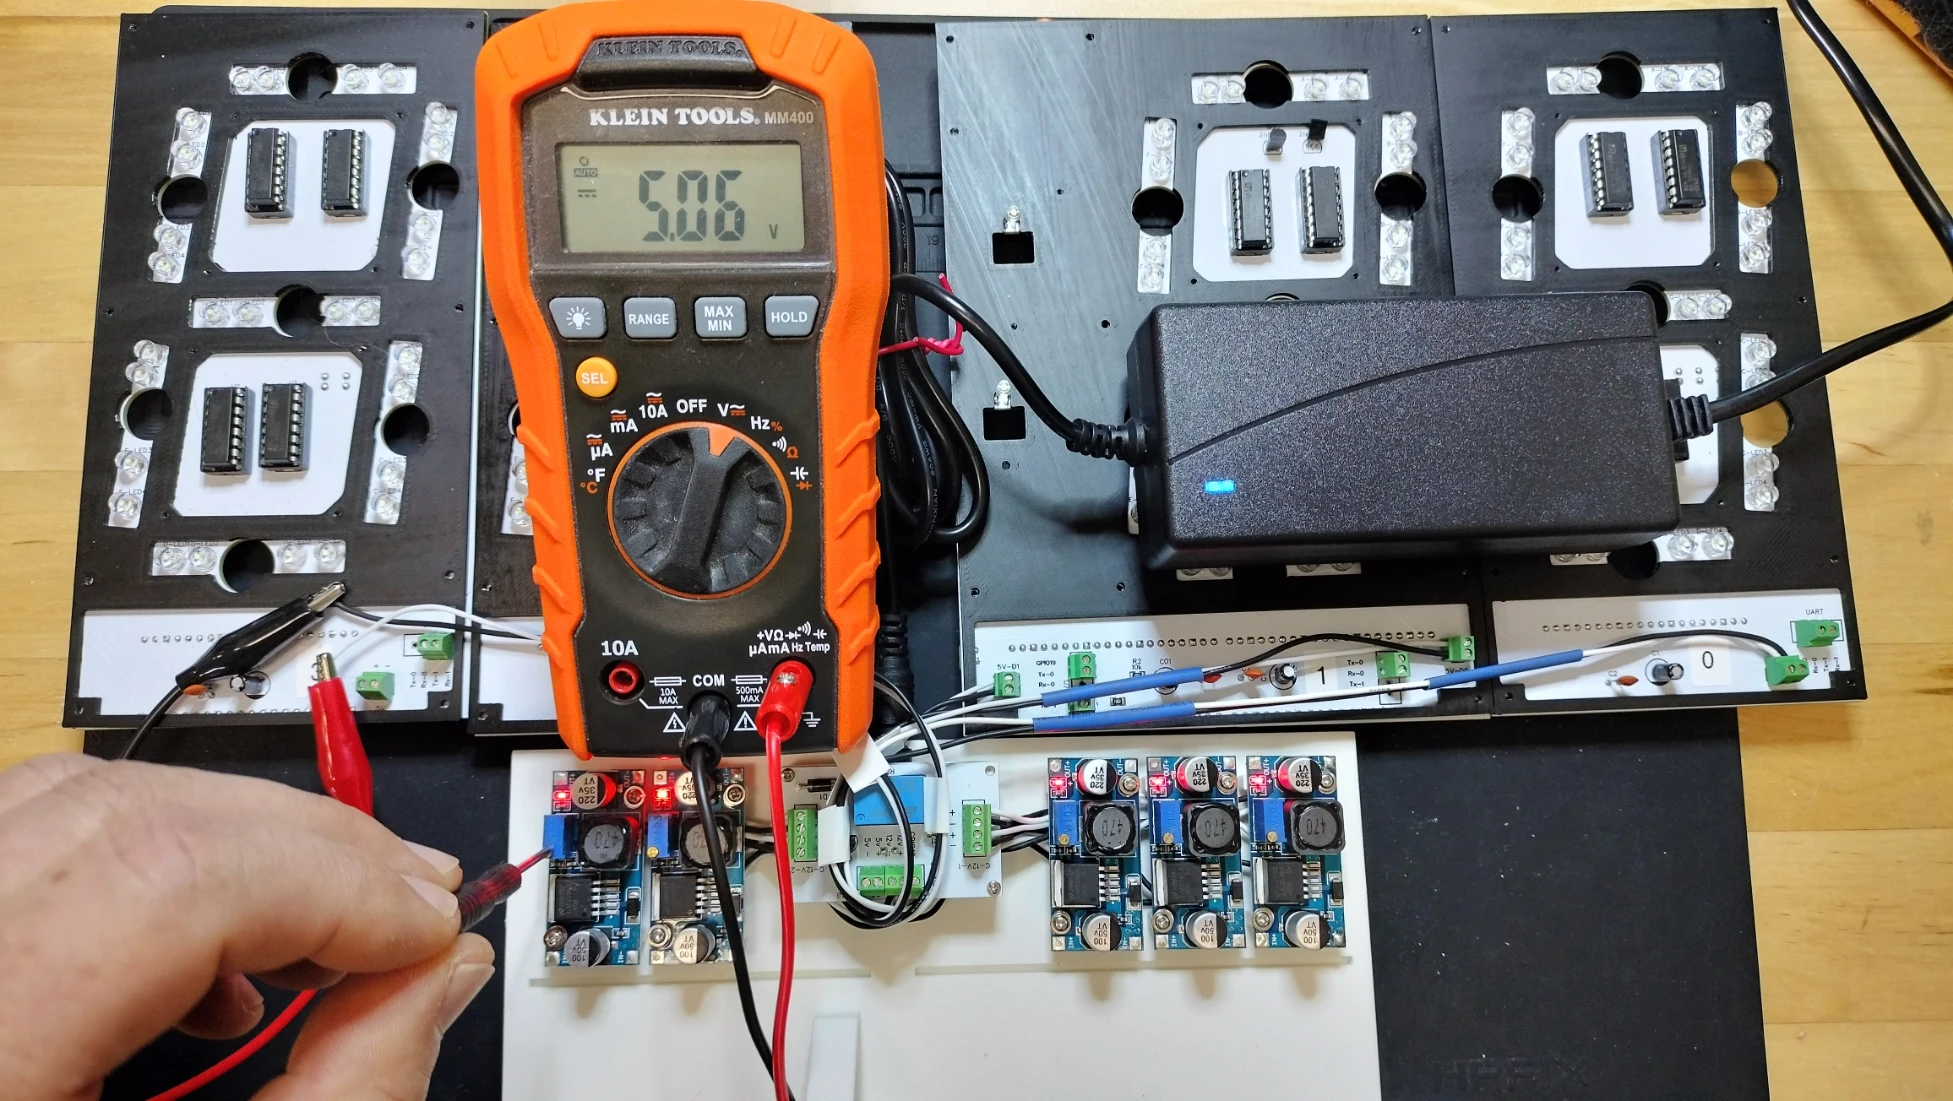
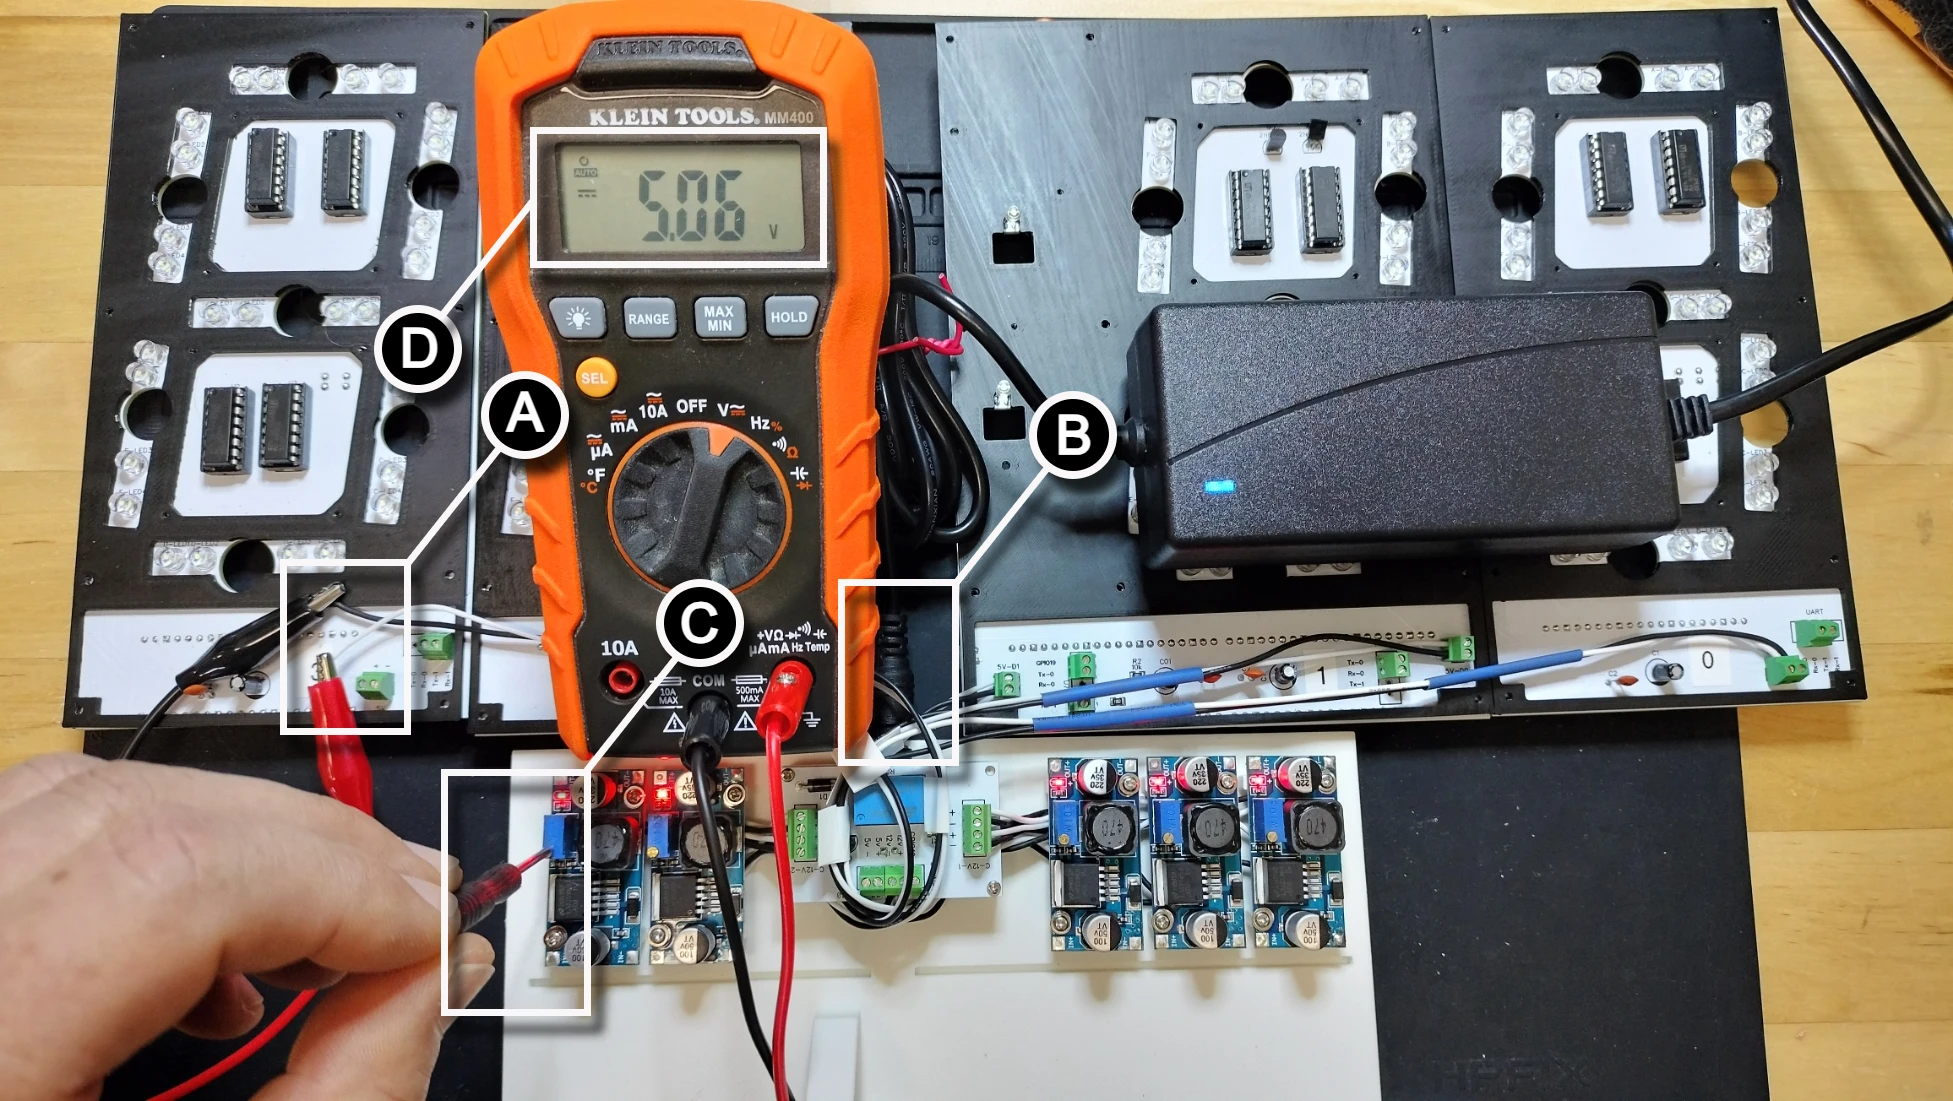
Completed draft of the buck module wiring

diff --git a/docs/assembly/buckmodulesandwiring.md b/docs/assembly/buckmodulesandwiring.md
@@ -1,4 +1,4 @@
-# Buck Modules and Wiring
+# Buck Module Wiring
 
 ## Prerequisites
 
@@ -18,6 +18,8 @@ This section ensures wiring for the PCBs are oriented for the mounting of the bu
 
 This section details wiring the buck converter to the PCBs. Be sure to follow the instructions in this section to get the wire lengths correct. Otherwise you are likely to have the wires be too short or too long for the display face to correctly fit. The buck converter module has an `In +` and `In -` on one side for the 12v input, and an `Out +` and `Out -` on the opposite side for the converted 5v output. This section will also cover how to calibrate the variable buck module to provide 5.0v to 5.1v output.
 
+The picture below is the wiring diagram for the buck converter modules.
+
 ![buckmodulesandwiring-wiring](../img/buckmoduleassembly/buckmoduleassembly-wire.webp)
 
 The picture below is the completed wiring of the buck converter modules. The order of install is **1, 2, 3** on the right, followed by **4** and **5** on the left.
@@ -29,13 +31,13 @@ The picture below is the completed wiring of the buck converter modules. The ord
 
 ### Digits 0-1, and Controller
 
-1. Following the picture below, place a buck converter module for Digit 0 on the rightmost support on the display stand. Strip 3mm of insulation from the black and white 28 AWG wire while on the roll starting then tin the stripped end with solder. Starting with the Digit 0 PCB, **(A)** Route the two wires from the 5v terminal block connector. **(B)** Slide two 3cm sections of heat shrink on the two wires but DO NOT APPLY HEAT, then **(C)** continue routing the wire around the relay, under the power management PCB and through the port on the PCB stand. **(D)** Finish unwinding the wire when you reach the end of buck module as shown in the picture. Now that the length of wire is known from its route, snip off the wires next to the terminal block connector **(A)**. Strip 3mm of insulation then tin the stripped end with solder. Connect the white wire to the `+` on the `5v` terminal block connector and the black wire onto the `-`.
+1. Following the picture below, place a buck converter module for Digit 0 on the rightmost support on the display stand. Strip 3mm of insulation from the black and white 28 AWG wire while on the roll starting then tin the stripped end with solder. **(A)** Route the two wires from the 5v terminal block connector on the Digit 0 PCB. **(B)** Slide two 3cm sections of heat shrink on the two wires but DO NOT APPLY HEAT, then **(C)** continue routing the wire around the relay, under the power management PCB and through the port on the PCB stand. **(D)** Finish unwinding the wire when you reach the end of buck module as shown in the picture. Now that the length of wire is known from its route, snip off the wires next to the terminal block connector. **(A)** Strip 3mm of insulation then tin the stripped end with solder. Connect the white wire to the `+` on the `5v` terminal block connector and the black wire onto the `-`.
 ![buckmodulesandwiring-3](../img/buckmoduleassembly/buckmoduleassembly-3.webp)
 1. Following the picture below, turn the Digit 0 buck module over to its backside and solder the white wire onto the `Out +` pad and the black wire onto the `Out -` pad.
 ![buckmodulesandwiring-4](../img/buckmoduleassembly/buckmoduleassembly-4.webp)
 1. Following the picture below, turn the Digit 0 buck module 180 degrees while having its backside facing up. Strip 3mm of insulation from the black and white 28 AWG wire while on the roll starting then tin the stripped end with solder. Solder the white wire onto the buck module's `In +` pad and the black wire onto the `In -` pad.
 ![buckmodulesandwiring-5](../img/buckmoduleassembly/buckmoduleassembly-5.webp)
-1. Turn the Digit 0 buck module over and secure it with 1.7 x 6mm self tapping screws onto the rightmost module supports on the display stand.
+1. Turn the Digit 0 buck module over and secure it with M1.7x6mm self tapping screws onto the rightmost module supports on the display stand.
 ![buckmodulesandwiring-6](../img/buckmoduleassembly/buckmoduleassembly-6.webp)
 1. Route the Digit 0 white and black wire to the power management PCB `C-12v-1` terminal block connector, provide about 10mm extra length in the wire before cutting them. Strip 3mm of insulation then tin the stripped end with solder. Connect the white wire to the `+` on the `C-12v-1` and the black wire onto the `-`.
 ![buckmodulesandwiring-7](../img/buckmoduleassembly/buckmoduleassembly-7.webp)
@@ -54,19 +56,22 @@ The picture below is the completed wiring of the buck converter modules. The ord
 
 ![buckmodulesandwiring-13](../img/buckmoduleassembly/buckmoduleassembly-13.webp)
 
-Following the picture above and starting with the Digit 0 buck module and working our way left. **(A)** disconnect the black and white wire from the 5v terminal block and connect the probes from the multimeter and turn on the multimeter. **(B)** Plug the 12v power supply into the power management PCB barrel jack. **(C)** Turn the screw on the top of the potentiometer on the Digit 0 buck module counterclockwise until **(D)** the voltage measures between 5.0 and 5.1 volts. Note you'll have to turn the screw on the top of the potentiometer several times before the voltage begins to drop.
+Follow using the picture above and start with the Digit 0 buck module furthest right. **(A)** Disconnect the black and white wire from the 5v terminal block and connect the probes from the multimeter set to measure DC voltage. **(B)** Plug the 12v power supply into the power management PCB barrel jack. **(C)** Turn the screw on the top of the potentiometer on the Digit 0 buck module counterclockwise until **(D)** the voltage measures between 5.0 and 5.1 volts. Note you'll have to turn the screw on the top of the potentiometer several times counterclockwise before the voltage begins to drop.
 
 Repeat the steps above to calibrate Digit 1 and the Conductor buck modules to 5v.
 
 ## Continue Wiring the Remaining Buck Modules
 
-1. Following the picture below, place a buck converter module for Digit 3 to the far left mounting location. Strip 3mm of insulation from the black and white 28 AWG wire while on the roll starting then tin the stripped end with solder. Starting with the Digit 3 PCB, **(A)** unroll the two wires starting at the 5v terminal block connector. **(B)** Slide one 3cm section of heat shrink on the two wires but DO NOT APPLY HEAT, then **(C)** route the wire around the relay, under the power management PCB, and through the port on the PCB stand. **(D)** Finish unwinding the wire when you reach the end of the buck module as shown in the picture. Strip 3mm of insulation then solder the white wire to the buck module `Out +` pad and the black wire to the `Out -` pad. Now that the length of wire is known from its route, snip off the wires next to the terminal block connector **(A)**. Strip 3mm of insulation then tin the stripped end with solder. Connect the white wire to the `+` on the `5v` terminal block connector and the black wire onto the `-`.
+1. Following the picture below, place a buck converter module for Digit 3 to the far left mounting location. Strip 3mm of insulation from the black and white 28 AWG wire while on the roll starting then tin the stripped end with solder. **(A)** Unroll the two wires starting at the 5v terminal block connector on Digit 3 PCB. **(B)** Slide one 3cm section of heat shrink on the two wires but DO NOT APPLY HEAT, then **(C)** route the wire around the relay, under the power management PCB, and through the port on the PCB stand. **(D)** Finish unwinding the wire when you reach the end of the buck module as shown in the picture. Strip 3mm of insulation then solder the white wire to the buck module `Out +` pad and the black wire to the `Out -` pad. Now that the length of wire is known from its route, snip off the wires next to the terminal block connector **(A)**. Strip 3mm of insulation then tin the stripped end with solder. Connect the white wire to the `+` on the `5v` terminal block connector and the black wire onto the `-`.
 ![buckmodulesandwiring-14](../img/buckmoduleassembly/buckmoduleassembly-14.webp)
 1. Following the diagram below, **(A)** solder the white wire onto the buck module's `In +` pad and the black wire onto the `In -` pad. Secure the module with two M1.7x6mm self tapping screws. **(B)** Route the Digit 0 white and black wire to the power management PCB `C-12v-1` terminal block connector, provide about 10mm extra length in the wire before cutting them. Strip 3mm of insulation then tin the stripped end with solder. Connect the white wire to the `+` on the `C-12v-1` and the black wire onto the `-`.
 ![buckmodulesandwiring-15](../img/buckmoduleassembly/buckmoduleassembly-15.webp)
-
+1. Following the picture below, place a buck converter module for Digit 2 to the right of Digit 3. Strip 3mm of insulation from the black and white 28 AWG wire while on the roll starting then tin the stripped end with solder. Starting with the Digit 2 PCB, **(A)** unroll the two wires starting at the 5v terminal block connector. **(B)** route the wire around the relay, under the power management PCB, and through the port on the PCB stand. **(C)** Finish unwinding the wire when you reach the end of the buck module as shown in the picture. Strip 3mm of insulation then solder the white wire to the buck module `Out +` pad and the black wire to the `Out -` pad. Now that the length of wire is known from its route, snip off the wires next to the terminal block connector **(A)**. Strip 3mm of insulation then tin the stripped end with solder. Connect the white wire to the `+` on the `5v` terminal block connector and the black wire onto the `-`.
 ![buckmodulesandwiring-16](../img/buckmoduleassembly/buckmoduleassembly-16.webp)
-
+Following the diagram below, **(A)** solder the white wire onto the buck module's `In +` pad and the black wire onto the `In -` pad. Secure the module with two M1.7x6mm self tapping screws. **(B)** Route the Digit 0 white and black wire to the power management PCB `C-12v-1` terminal block connector, provide about 10mm extra length in the wire before cutting them. Strip 3mm of insulation then tin the stripped end with solder. Connect the white wire to the `+` on the `C-12v-1` and the black wire onto the `-`.
 ![buckmodulesandwiring-17](../img/buckmoduleassembly/buckmoduleassembly-17.webp)
+1. Position the heat shrink as per the picture of the completed wiring of the buck converter modules at the beginning of this document. Apply heat from your heat gun to complete the assembly of all the heat shrink.
+2. Following the picture below with the Digit 3 buck module, **(A)** disconnect the black and white wire from the 5v terminal block, and connect the probes from the multimeter set to measure DC voltage. **(B)** Plug the 12v power supply into the power management PCB barrel jack. **(C)** Turn the screw on the top of the potentiometer on the Digit 3 buck module counterclockwise until **(D)** the voltage measures between 5.0 and 5.1 volts. Note you'll have to turn the screw on the top of the potentiometer several times counterclockwise before the voltage begins to drop.
 
+Repeat the steps above to calibrate Digit 1 and the Conductor buck modules to 5v.
 ![buckmodulesandwiring-18](../img/buckmoduleassembly/buckmoduleassembly-18.webp)

diff --git a/docs/index.md b/docs/index.md
@@ -22,4 +22,4 @@
 - [Test Controller PCB](./assembly/controllerpcbtest.md)
 - [Power Management PCB Assembly](./assembly/powermanagementpcb.md)
 - [Test Power Management PCB](./assembly/powermanagementpcbtest.md)
-- [Buck Modules and Wiring](./assembly/buckmodulesandwiring.md)
+- [Buck Module Wiring](./assembly/buckmodulesandwiring.md)
